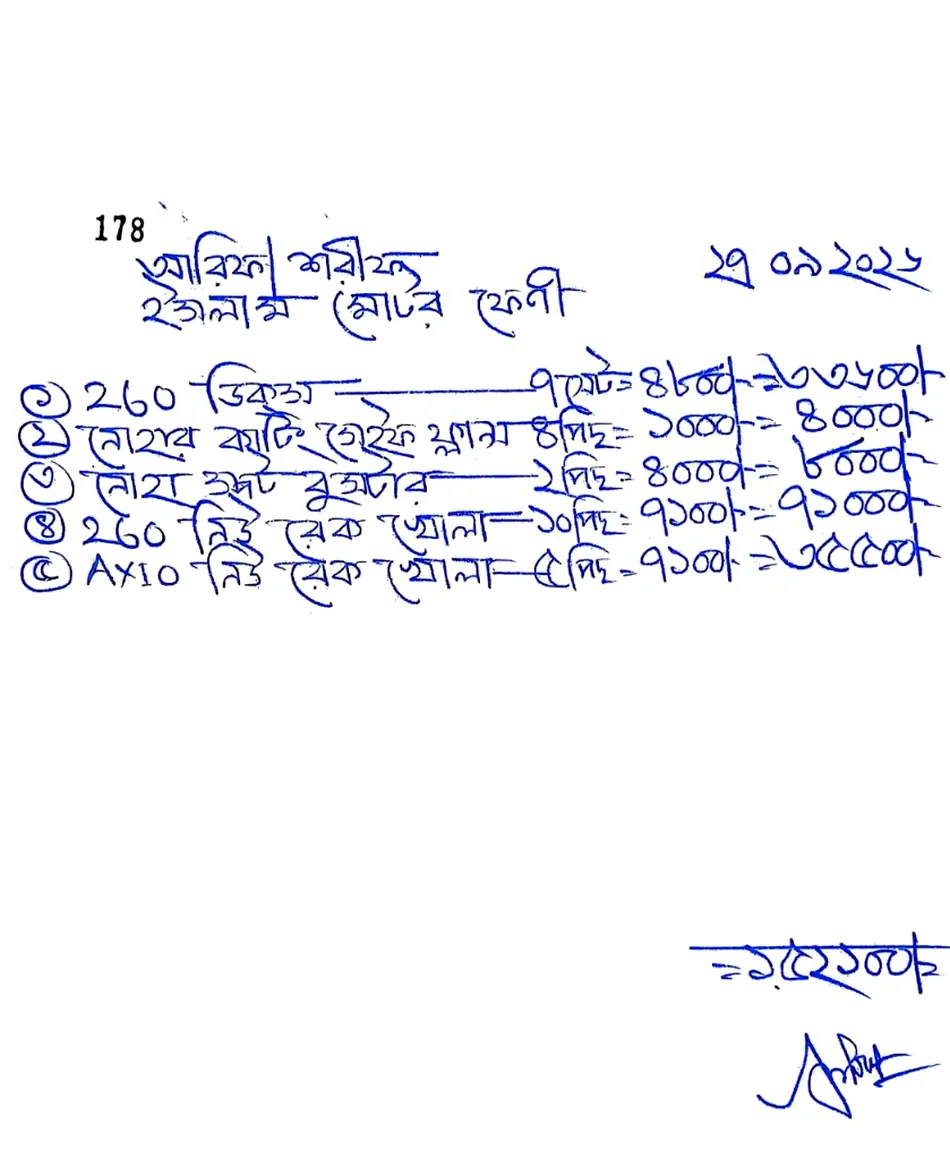
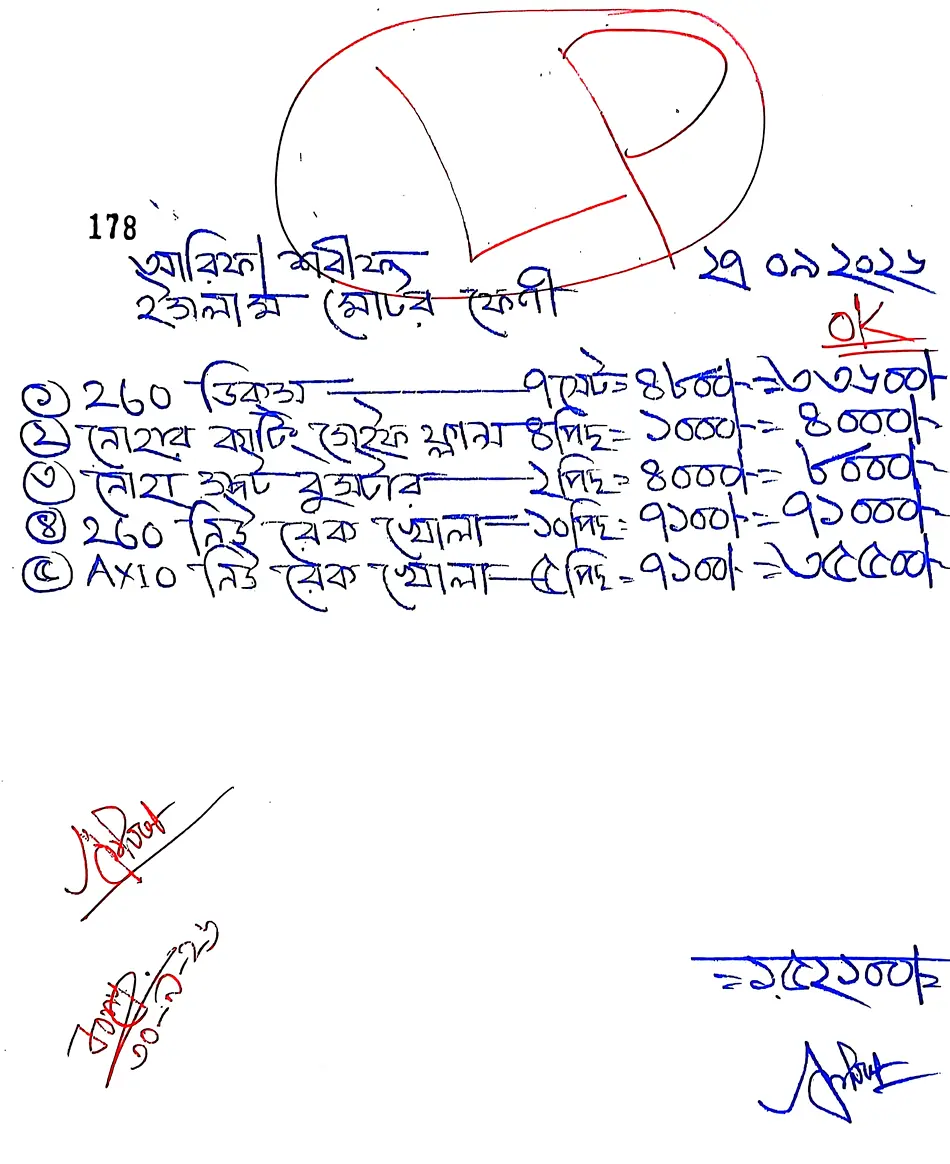
feat(memo-book): update memos 178, 179, 180 with officially signed approved copies and upload to R2

diff --git a/Memo Book Editor/MEMO_REPORT.md b/Memo Book Editor/MEMO_REPORT.md
@@ -102,6 +102,6 @@
 | Page 73 | **175** | `175.webp` | 135.9 KB |
 | Page 74 | **176** | `176.webp` | 126.5 KB |
 | Page 75 | **177** | `177.webp` | 119.8 KB |
-| Page 76 | **178** | `178.webp` | 53.9 KB |
-| Page 77 | **179** | `179.webp` | 25.5 KB |
-| Page 78 | **180** | `180.webp` | 92.5 KB |
+| Page 76 | **178** | `178.webp` | 74.8 KB |
+| Page 77 | **179** | `179.webp` | 28.0 KB |
+| Page 78 | **180** | `180.webp` | 111.9 KB |
